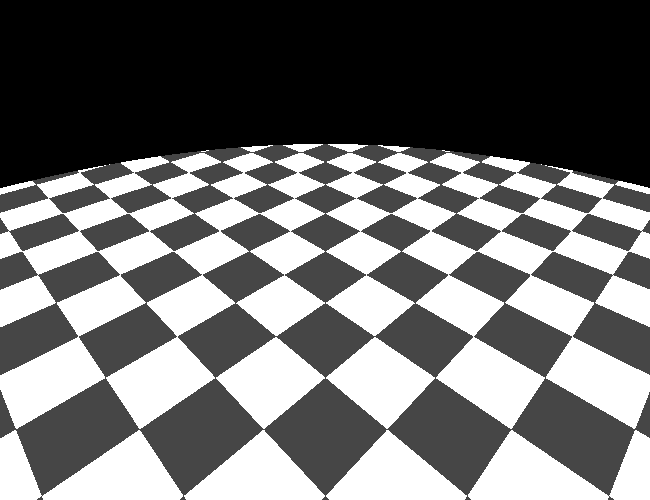
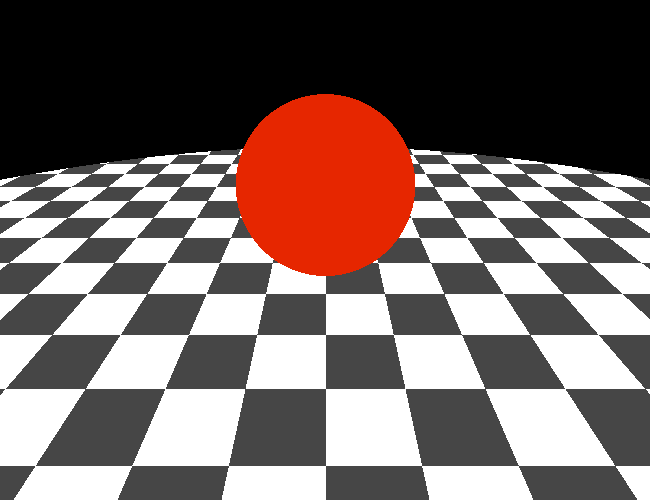
Sphere surface has been implemented!

diff --git a/Ray-Tracing/Components/Surface.h b/Ray-Tracing/Components/Surface.h
@@ -14,9 +14,8 @@ class Sphere;
 class Surface : public Entity {
 protected:
 	Surface(const glm::vec3& position);
-
-	virtual glm::vec3 getNormal(const glm::vec3& point) const = 0;
 public:
+	virtual glm::vec3 getNormal(const glm::vec3& point) const = 0;
 	virtual float getIntersectionParam(const Ray& ray) const = 0;
 	virtual glm::vec3 getBaseColor(const glm::vec3& point) const = 0;
 };
@@ -24,11 +23,10 @@ public:
 class Ground : public Surface {
 protected:
 	glm::vec3 _baseColor;
-
-	virtual inline glm::vec3 getNormal(const glm::vec3& point) const { return glm::vec3(0.0f, 1.0f, 0.0f); }
 public:
 	Ground(const glm::vec3& color);
 
+	virtual inline glm::vec3 getNormal(const glm::vec3& point) const { return glm::vec3(0.0f, 1.0f, 0.0f); }
 	virtual float getIntersectionParam(const Ray& ray) const;
 	virtual glm::vec3 getBaseColor(const glm::vec3& point) const;
 };
@@ -37,11 +35,10 @@ class Sphere : public Surface {
 protected:
 	float _radius;
 	glm::vec3 _baseColor;
-
-	virtual glm::vec3 getNormal(const glm::vec3& point) const;
 public:
 	Sphere(const glm::vec3& center, float radius, const glm::vec3& color);
 
+	virtual glm::vec3 getNormal(const glm::vec3& point) const;
 	virtual float getIntersectionParam(const Ray& ray) const;
 	virtual inline glm::vec3 getBaseColor(const glm::vec3& point) const { return _baseColor; }
 };

diff --git a/Ray-Tracing/Components/Renderer.cpp b/Ray-Tracing/Components/Renderer.cpp
@@ -55,16 +55,13 @@ bool Renderer::loadScene(const std::string& filename) {
 	_image = SDL_GetWindowSurface(_window);
 
 	// Setup Camera
-	_camera = new PerspCamera(glm::vec3(0.0f, 2.0f, 7.0f), 4.0f, _width, _height, 12.5f);
+	_camera = new PerspCamera(glm::vec3(0.0f, 2.0f, 3.0f), 4.0f, _width, _height, 15.0f);
 	// _camera = new OrthoCamera(glm::vec3(0.0f, 5.0f, 10.0f), _width, _height, 500.0f);
-	_camera->setOrientation(45.0f, -35.0f);
+	_camera->setOrientation(90.0f, -30.0f);
 
 	// Setup Objects
+	_objects.push_back(new Sphere(glm::vec3(0.0f, 1.5f, 0.0f), 1.5f, glm::vec3(230.0f, 38.0f, 0.0f)));
 	_objects.push_back(new Ground(glm::vec3(255.0f, 255.0f, 255.0f)));
-
-#ifdef _DEBUG
-	_camera->debug();
-#endif
 	return true;
 }
 

diff --git a/Ray-Tracing/Components/Surface.cpp b/Ray-Tracing/Components/Surface.cpp
@@ -50,6 +50,18 @@ Sphere::Sphere(const glm::vec3& center, float radius, const glm::vec3& color) : 
 }
 
 float Sphere::getIntersectionParam(const Ray& ray) const {
+	const glm::vec3 dir = ray.getDirection();
+	const glm::vec3 centerToRay = ray.getStart() - _position;
+	double discriminant = std::pow(glm::dot(dir, centerToRay), 2.0f) - (std::pow(glm::length(centerToRay), 2.0) - std::pow(_radius, 2.0));
+	if (discriminant < 0.0) {
+		return -1.0f;
+	}
+	float a = glm::dot(-1.0f * dir, centerToRay);
+	float b = std::sqrt(float(discriminant));
+	float t = std::min(a + b, a - b);
+	if (ray.isWithinBounds(t)) {
+		return t;
+	}
 	return -1.0f;
 }
 

diff --git a/Ray-Tracing/Components/Renderer.h b/Ray-Tracing/Components/Renderer.h
@@ -25,7 +25,6 @@ protected:
 	std::vector<Entity*> _lights;
 
 	Uint32 traceRay(const Ray& ray, int bounces = 1);
-	Uint32 calcPixelColor(int x, int y);
 public:
 	Renderer();
 	~Renderer();

diff --git a/Ray-Tracing/stdafx.h b/Ray-Tracing/stdafx.h
@@ -8,5 +8,10 @@
 #include <SDL.h>
 #include <glm.hpp>
 #include <chrono>
+#include <algorithm>
+
+#ifdef _DEBUG
+#include <iostream>
+#endif
 
 #endif

diff --git a/README.md b/README.md
@@ -4,7 +4,7 @@ This is my implementation of a ray tracing program that is capable of rendering 
 Currently a work in progress.
 
 ## Latest Working Version:
-I've gotten basic object intersection working as seen here with the ground.
+I've gotten basic object intersection working as seen here with the ground and sphere. Shading is next on the TODO list.
 
 ![alt text](https://github.com/jmielc2/Ray-Tracing/blob/master/docs/rendered-scene.png?raw=true)
 
